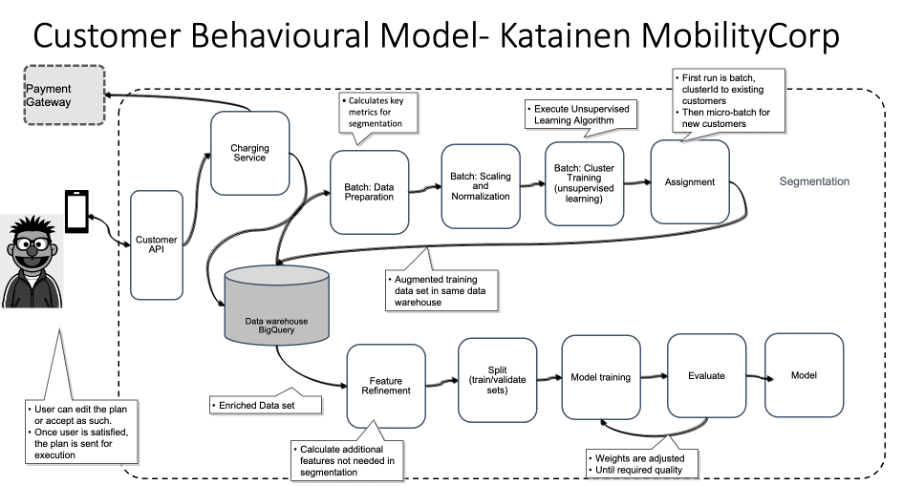
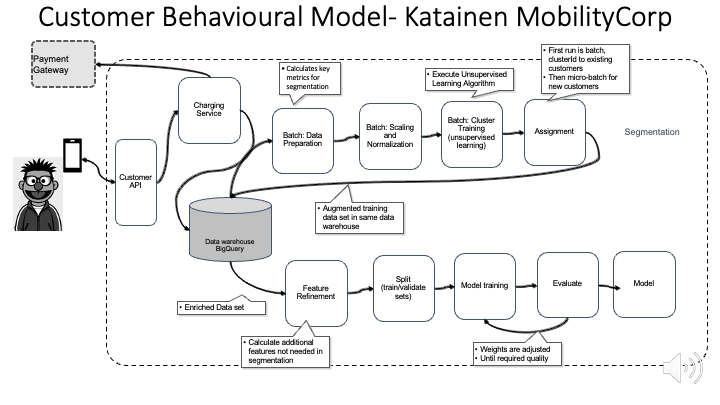
added video link + corrections to diagrams

diff --git a/README.md b/README.md
@@ -13,6 +13,12 @@ The three key issues and hence success criteria for the work where:
 * How to priotize which vehicles to swap out batteris first (bikes, scooters).
 * Right now, most of our customers just use them on an ad-hoc basis - we’d like more of them to rely on our fleet for regular trips like daily commutes
 
+## Team
+[Martti Ylikoski](https://www.linkedin.com/in/marttiylikoski/)
+
+## Video
+[Overview in 5 minutes](https://youtu.be/bMOVeFOjGXo)
+
 ## Overview of AI Usage
 
 For the battery swap issue, a predictive model for equipment is proposed. Process works both for predictive care (when things go pear shaped) as well for batteries (out-of-juice situation) just with own models (for each key component that can break as well for batteries). It consists of found main parts: 1) capturing data first (collect, validate, make into canonical format and to data warehouse) and 2) then actual training pipeline with calculating additional features from raw material, splitting into training and validation, model training, evaluation until model is declared ready, 3) usage where model is available via API that uses cached, precalculated results, 4) comparing actual realized events against what the model predicted to monitor model degradation.
